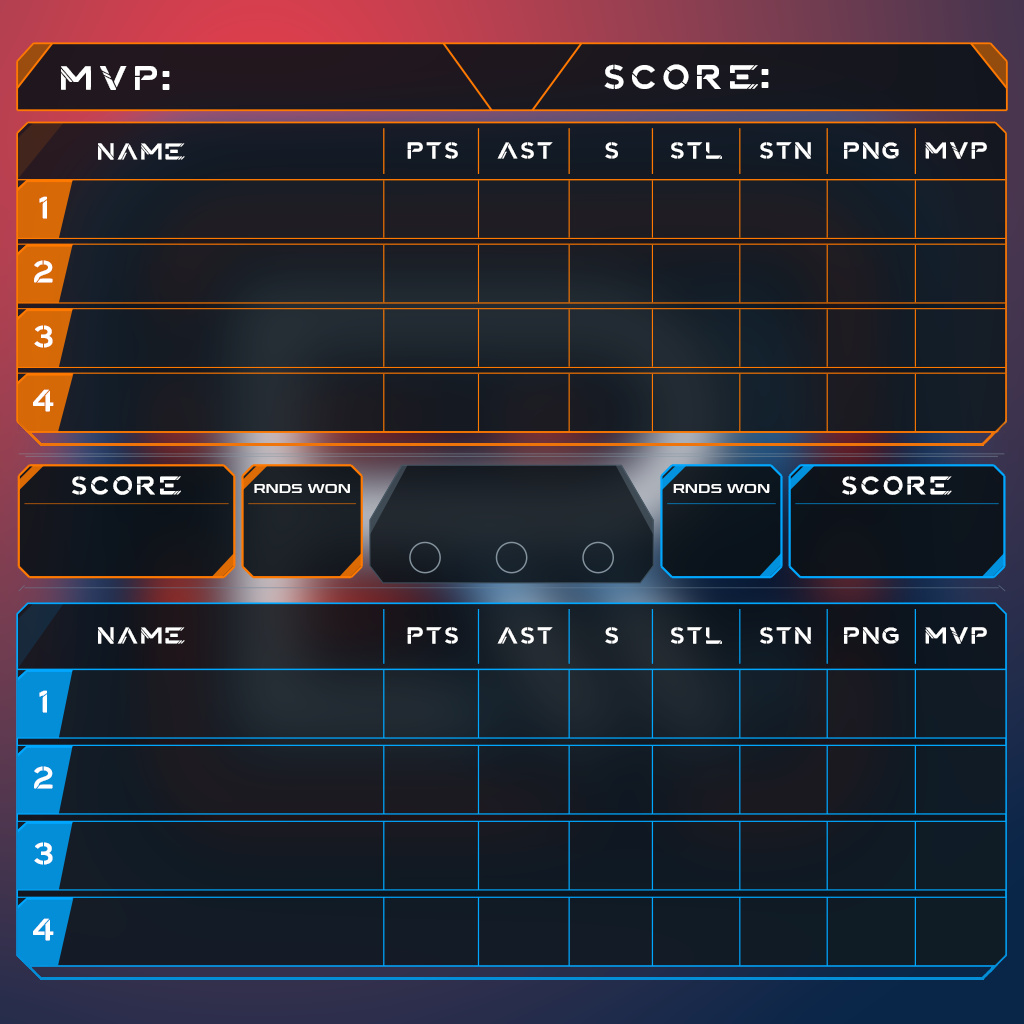
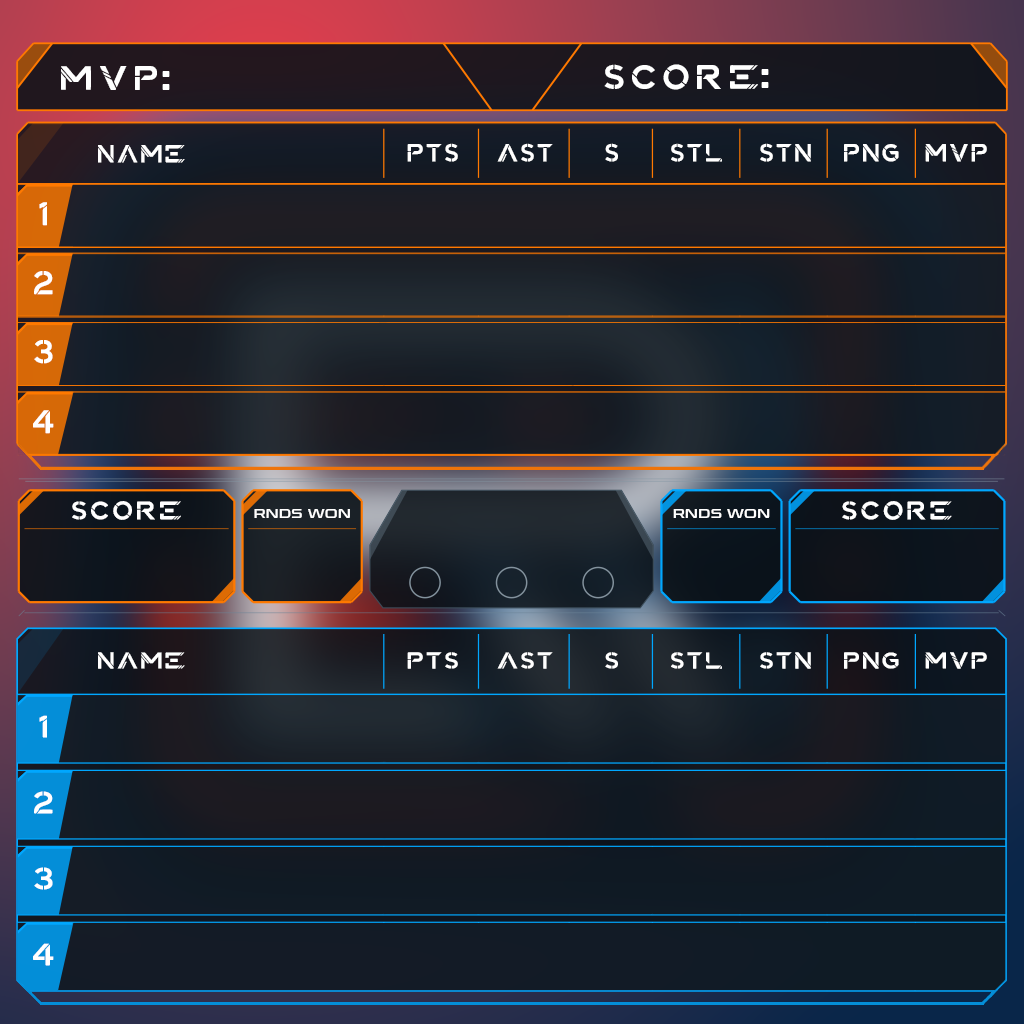
Use Conthrax with revised scoreboard template

Changed region(s): [[0.0, 0.125, 1.0, 1.0]]

diff --git a/EchoRankedServerBot/Services/ScoreboardImageService.cs b/EchoRankedServerBot/Services/ScoreboardImageService.cs
@@ -11,7 +11,7 @@ public class ScoreboardImageService(IOptions<BotOptions> options, ILogger<Scoreb
 {
     private readonly Lazy<SKTypeface> _typeface = new(() => LoadTypeface(options.Value.ScoreboardFontPath, logger));
 
-    private static readonly SKPoint[] FramedRoundWinCenters = [new(425, 557.5f), new(511.5f, 557.5f), new(598, 557.5f)];
+    private static readonly SKPoint[] FramedRoundWinCenters = [new(425, 582.5f), new(511.5f, 582.5f), new(598, 582.5f)];
 
     // Coordinates for the 1024px templates; blue rows precede orange rows.
     private static readonly ScoreboardRegions ClassicRegions = new(
@@ -25,12 +25,12 @@ public class ScoreboardImageService(IOptions<BotOptions> options, ILogger<Scoreb
 
     private static readonly ScoreboardRegions FramedRegions = new(
         [76, 384, 478, 569, 653, 740, 828, 915, 1006],
-        [(670, 738), (745, 814), (821, 890), (897, 966),
-         (180, 238), (245, 303), (310, 367), (374, 432)],
+        [(695, 763), (771, 838), (847, 914), (923, 990),
+         (185, 247), (254, 316), (323, 385), (392, 454)],
         new(184, 52, 435, 102), new(784, 52, 984, 102),
-        new(36, 512, 217, 569), new(805, 512, 987, 569),
-        new(389, 481, 635, 535),
-        new(256, 512, 351, 569), new(674, 512, 769, 569));
+        new(36, 536, 217, 595), new(805, 536, 987, 595),
+        new(389, 494, 635, 550),
+        new(256, 536, 351, 595), new(674, 536, 769, 595));
 
     private sealed record ScoreboardRegions(
         float[] ColumnEdges, (float Top, float Bottom)[] Rows,
